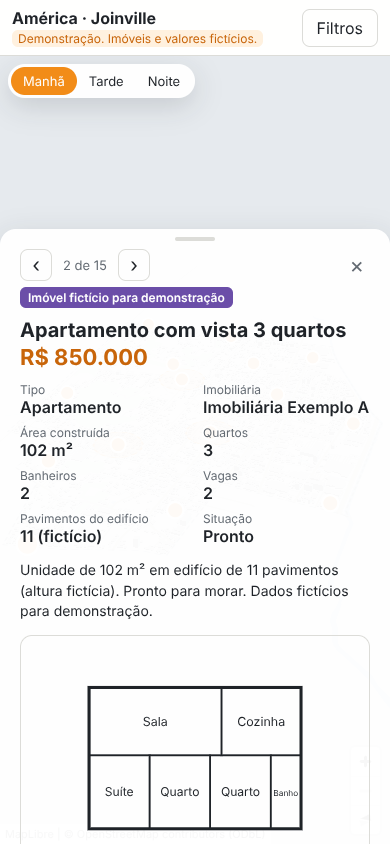
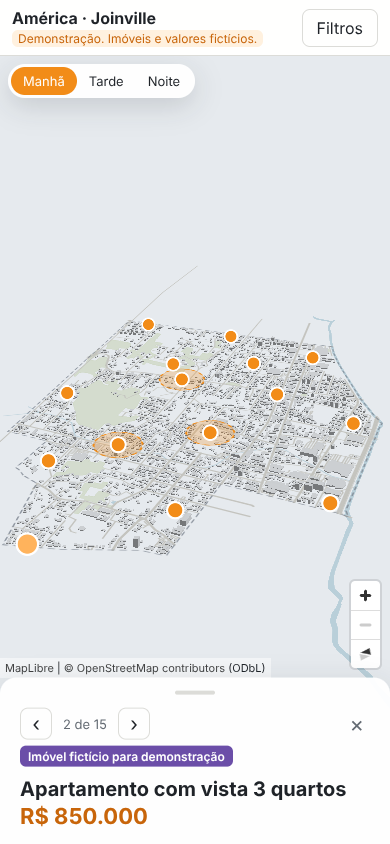
Two-stage bottom sheet on mobile
A newly opened listing shows a collapsed summary strip (navigation, badge, title,
price) so the map stays visible; tapping the handle or the strip, or swiping up,
expands it; swiping down collapses and, when already collapsed, closes it. Map
controls and attribution are lifted above the collapsed sheet. Desktop unchanged.

Claude-Session: https://claude.ai/code/session_01MswBngYgUdv4UjeCTjJVEZ

Changed region(s): [[0.0, 0.3081, 1.0, 0.9858], [0.8923, 0.8318, 0.9231, 0.8626], [0.8923, 0.3081, 0.9231, 0.3389]]

diff --git a/src/ui/drawer.ts b/src/ui/drawer.ts
@@ -12,9 +12,14 @@ export interface DrawerNav {
   nextId: string | null;
 }
 
+const isMobile = () => window.matchMedia('(max-width: 720px)').matches;
+const SWIPE_PX = 30;
+
 export class Drawer {
   private openId: string | null = null;
   private nav: DrawerNav | null = null;
+  private swipeStartY: number | null = null;
+  private ignoreNextClick = false;
   constructor(
     private el: HTMLElement,
     private agencies: Agency[],
@@ -30,6 +35,46 @@ export class Drawer {
       if (e.key === 'ArrowLeft' && this.nav?.prevId) this.onNavigate(this.nav.prevId);
       if (e.key === 'ArrowRight' && this.nav?.nextId) this.onNavigate(this.nav.nextId);
     });
+    this.bindSheetGestures();
+  }
+
+  get expanded() {
+    return this.el.classList.contains('expanded');
+  }
+
+  /** Mobile bottom sheet: collapsed shows a summary strip; expanded shows everything. */
+  setExpanded(on: boolean): void {
+    this.el.classList.toggle('expanded', on);
+    document.body.classList.toggle('drawer-expanded', on && this.openId !== null);
+    this.el.querySelector('.drawer-handle')?.setAttribute('aria-expanded', String(on));
+    this.el.querySelector('.drawer-handle')?.setAttribute('aria-label', on ? 'Recolher detalhes' : 'Expandir detalhes');
+    if (!on) this.el.scrollTop = 0;
+  }
+
+  private bindSheetGestures(): void {
+    // Swipe on the summary strip: up expands, down collapses (or closes when already collapsed).
+    this.el.addEventListener('pointerdown', (e) => {
+      if (!isMobile() || !(e.target as HTMLElement).closest('.drawer-handle, .drawer-summary')) return;
+      this.swipeStartY = e.clientY;
+    });
+    window.addEventListener('pointerup', (e) => {
+      if (this.swipeStartY === null) return;
+      const dy = e.clientY - this.swipeStartY;
+      this.swipeStartY = null;
+      if (Math.abs(dy) < SWIPE_PX || !this.openId) return;
+      this.ignoreNextClick = true;
+      setTimeout(() => (this.ignoreNextClick = false), 0);
+      if (dy < 0) this.setExpanded(true);
+      else if (this.expanded) this.setExpanded(false);
+      else this.close();
+    });
+    // Tap on the handle toggles; tap anywhere on the collapsed strip (except buttons) expands.
+    this.el.addEventListener('click', (e) => {
+      if (!isMobile() || this.ignoreNextClick) return;
+      const t = e.target as HTMLElement;
+      if (t.closest('.drawer-handle')) return this.setExpanded(!this.expanded);
+      if (!this.expanded && !t.closest('button, a')) this.setExpanded(true);
+    });
   }
 
   get currentId() {
@@ -37,6 +82,7 @@ export class Drawer {
   }
 
   open(l: Listing, nav: DrawerNav | null = null): void {
+    const freshOpen = this.openId === null;
     this.openId = l.id;
     this.nav = nav;
     const agency = this.agencies.find((a) => a.id === l.agency)?.name ?? l.agency;
@@ -58,7 +104,8 @@ export class Drawer {
     ];
 
     this.el.innerHTML = `
-      <div class="drawer-handle" aria-hidden="true"></div>
+      <button type="button" class="drawer-handle" aria-expanded="false" aria-label="Expandir detalhes"><span></span></button>
+      <div class="drawer-summary">
       <div class="drawer-head">
         ${
           nav
@@ -74,6 +121,7 @@ export class Drawer {
       <span class="badge-fictional">Imóvel fictício para demonstração</span>
       <h2 id="drawer-title">${escapeHtml(l.title)}</h2>
       <p class="price">${formatBRL(l.price)}</p>
+      </div>
       ${
         l.approximateLocation
           ? `<p class="notice-approx">📍 Localização aproximada: a posição exata não é exibida; o círculo indica um raio de ~${l.approxRadiusM ?? 150} m.</p>`
@@ -104,6 +152,9 @@ export class Drawer {
     this.el.querySelector('[data-action="prev"]')?.addEventListener('click', () => nav?.prevId && this.onNavigate(nav.prevId));
     this.el.querySelector('[data-action="next"]')?.addEventListener('click', () => nav?.nextId && this.onNavigate(nav.nextId));
     this.el.classList.add('open');
+    document.body.classList.add('drawer-open');
+    // a newly opened listing starts collapsed on mobile; browsing keeps the current state
+    this.setExpanded(freshOpen ? false : this.expanded);
     this.el.setAttribute('aria-hidden', 'false');
     this.el.scrollTop = 0;
     this.el.focus({ preventScroll: true });
@@ -114,6 +165,8 @@ export class Drawer {
     this.openId = null;
     this.nav = null;
     this.el.classList.remove('open');
+    document.body.classList.remove('drawer-open');
+    this.setExpanded(false);
     this.el.setAttribute('aria-hidden', 'true');
     this.onClose();
   }

diff --git a/src/styles.css b/src/styles.css
@@ -364,6 +364,10 @@ body[data-tod='night'] .tt-note {
 .drawer-handle {
   display: none;
 }
+.drawer-summary {
+  /* groups navigation, badge, title and price: the strip shown by the collapsed mobile sheet */
+  display: block;
+}
 .drawer-head {
   display: flex;
   align-items: center;
@@ -496,6 +500,9 @@ body[data-tod='night'] .price {
 
 /* ---------------- mobile ---------------- */
 @media (max-width: 720px) {
+  :root {
+    --peek: 166px;
+  }
   .topbar {
     padding: 8px 12px;
   }
@@ -541,17 +548,41 @@ body[data-tod='night'] .price {
   .drawer.open {
     transform: none;
   }
+  /* collapsed sheet: only the summary strip is visible, the map stays usable above it */
+  .drawer.open:not(.expanded) {
+    transform: translateY(calc(100% - var(--peek)));
+    overflow: hidden;
+  }
+  /* lift the map controls (and attribution) above the collapsed sheet */
+  body.drawer-open .maplibregl-ctrl-bottom-left,
+  body.drawer-open .maplibregl-ctrl-bottom-right {
+    bottom: var(--peek);
+  }
   /* the bottom sheet covers the map's attribution control, so repeat it inside the sheet */
   .drawer-attrib {
     display: block;
   }
   .drawer-handle {
     display: block;
+    width: 100%;
+    height: 22px;
+    margin: -4px 0 4px;
+    padding: 0;
+    border: 0;
+    background: transparent;
+    cursor: pointer;
+    touch-action: none;
+  }
+  .drawer-handle span {
+    display: block;
     width: 40px;
     height: 4px;
     border-radius: 2px;
     background: var(--line);
-    margin: 0 auto 8px;
+    margin: 0 auto;
+  }
+  .drawer.open:not(.expanded) .drawer-summary {
+    touch-action: none;
   }
   .time-of-day {
     top: 8px;
